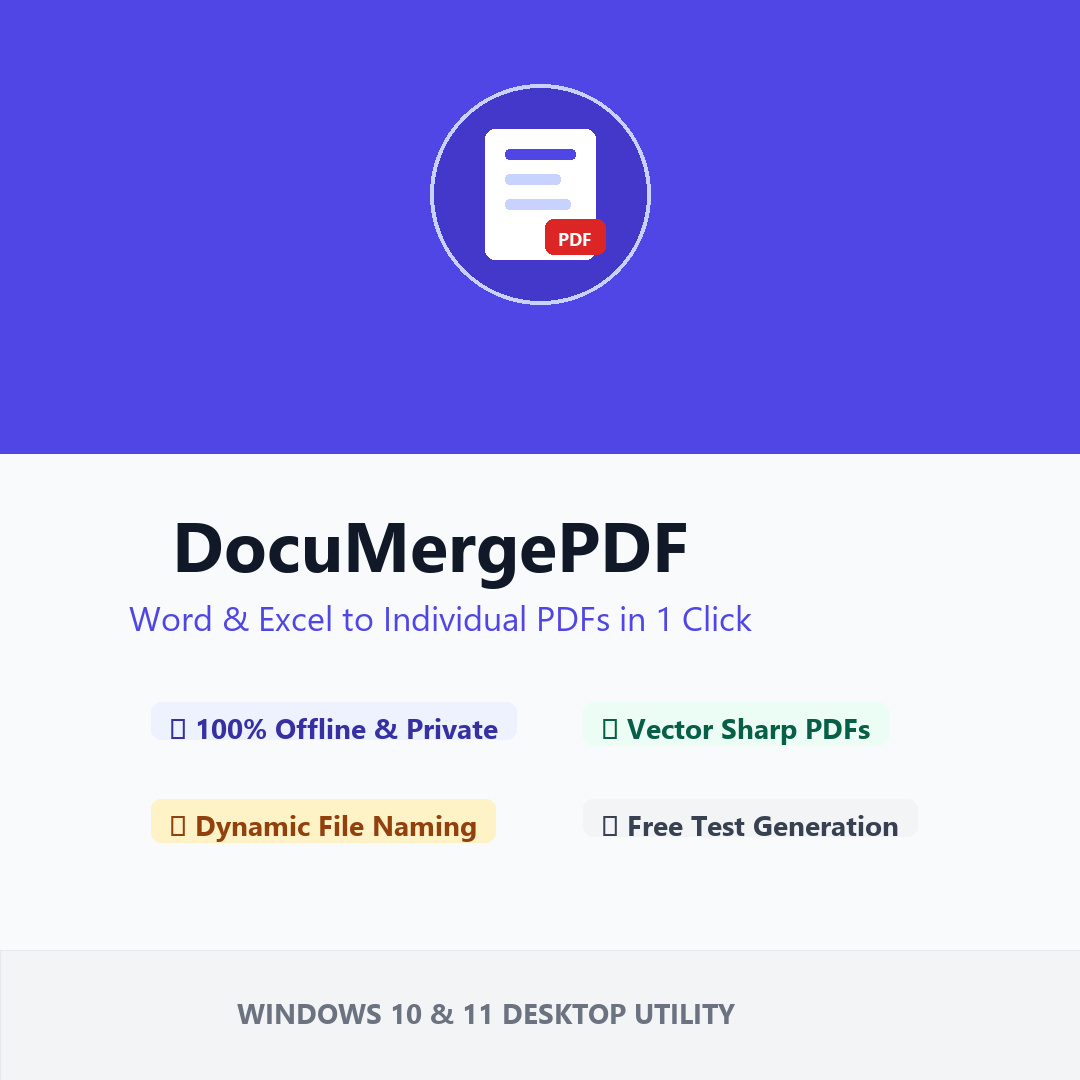
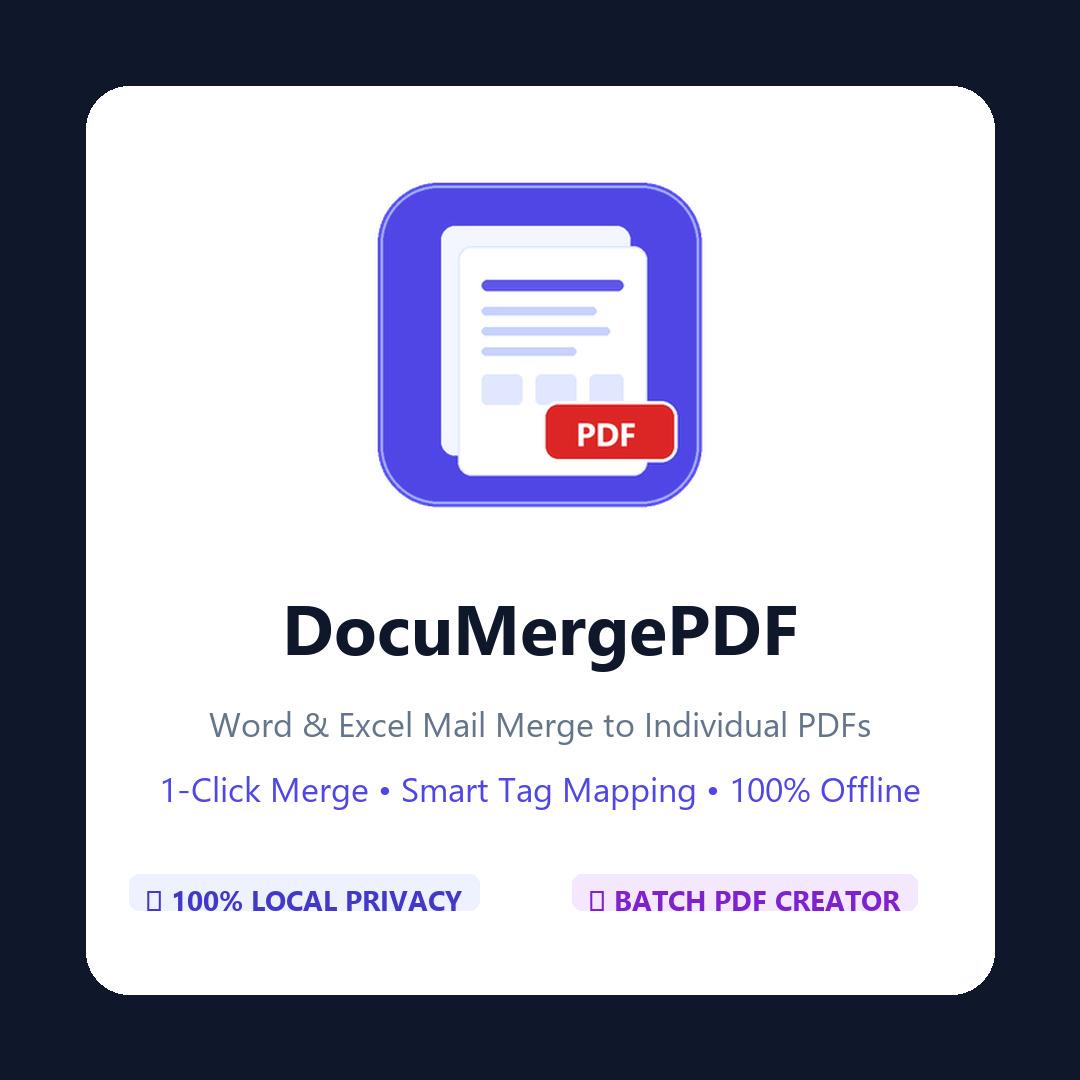
Update clean store assets and real screenshots

diff --git a/capture_docu_assets.py b/capture_docu_assets.py
@@ -1,0 +1,197 @@
+import os
+import sys
+import time
+from PIL import Image, ImageDraw, ImageFont, ImageGrab
+
+ROOT = r"C:\AllCode\Extension\Apps\Done\DocuMergePDF"
+OUT_DIR = os.path.join(ROOT, "STORE_ASSETS")
+os.makedirs(OUT_DIR, exist_ok=True)
+
+if ROOT not in sys.path:
+    sys.path.insert(0, ROOT)
+
+FONT_BOLD = "C:/Windows/Fonts/segoeuib.ttf"
+FONT_REG = "C:/Windows/Fonts/segoeui.ttf"
+FONT_SEMIBOLD = "C:/Windows/Fonts/seguisb.ttf"
+
+def get_font(path, size):
+    try:
+        return ImageFont.truetype(path, size)
+    except Exception:
+        return ImageFont.load_default()
+
+def draw_pill(draw, x, y, text, font, bg_color, text_color, px=18, py=8, radius=10, border_color=None):
+    bbox = draw.textbbox((0, 0), text, font=font)
+    tw, th = bbox[2] - bbox[0], bbox[3] - bbox[1]
+    box = [x, y, x + tw + px * 2, y + th + py * 2]
+    draw.rounded_rectangle(box, radius=radius, fill=bg_color, outline=border_color, width=1 if border_color else 0)
+    draw.text((x + px, y + py - 2), text, font=font, fill=text_color)
+    return x + tw + px * 2
+
+def create_box_art(size=1080):
+    img = Image.new("RGB", (size, size), (15, 23, 42))  # Slate 900
+    draw = ImageDraw.Draw(img)
+
+    f_title = get_font(FONT_BOLD, int(size * 0.065))
+    f_sub = get_font(FONT_REG, int(size * 0.032))
+    f_badge = get_font(FONT_BOLD, int(size * 0.026))
+
+    card_margin = int(size * 0.08)
+    draw.rounded_rectangle([card_margin, card_margin, size - card_margin, size - card_margin], radius=int(size * 0.04), fill=(255, 255, 255))
+
+    ico_path = os.path.join(ROOT, "app_icon.ico")
+    if os.path.exists(ico_path):
+        ico = Image.open(ico_path).convert("RGBA")
+        ico_size = int(size * 0.32)
+        ico_resized = ico.resize((ico_size, ico_size), Image.Resampling.LANCZOS)
+        img.paste(ico_resized, ((size - ico_size) // 2, int(size * 0.16)), ico_resized)
+
+    draw.text((size // 2, int(size * 0.58)), "DocuMergePDF", font=f_title, fill=(15, 23, 42), anchor="mm")
+    draw.text((size // 2, int(size * 0.67)), "Word & Excel Mail Merge to Individual PDFs", font=f_sub, fill=(100, 116, 139), anchor="mm")
+    draw.text((size // 2, int(size * 0.73)), "1-Click Merge • Smart Tag Mapping • 100% Offline", font=f_sub, fill=(79, 70, 229), anchor="mm")
+
+    pill_y = int(size * 0.81)
+    draw_pill(draw, int(size * 0.12), pill_y, "🔒 100% LOCAL PRIVACY", f_badge, (238, 242, 255), (67, 56, 202), px=16, py=8, radius=10)
+    draw_pill(draw, int(size * 0.53), pill_y, "⚡ BATCH PDF CREATOR", f_badge, (243, 232, 255), (126, 34, 206), px=16, py=8, radius=10)
+
+    out_file = os.path.join(OUT_DIR, f"BoxArt_{size}x{size}.png")
+    img.save(out_file, "PNG")
+    print(f"[✓] Created: {out_file}")
+
+def create_poster_art(w=720, h=1080):
+    img = Image.new("RGB", (w, h), (15, 23, 42))
+    draw = ImageDraw.Draw(img)
+
+    f_title = get_font(FONT_BOLD, 46)
+    f_sub = get_font(FONT_REG, 24)
+    f_feature = get_font(FONT_SEMIBOLD, 22)
+    f_badge = get_font(FONT_BOLD, 18)
+
+    card_left = 36
+    card_top = 48
+    card_right = w - 36
+    card_bottom = h - 48
+    draw.rounded_rectangle([card_left, card_top, card_right, card_bottom], radius=24, fill=(255, 255, 255))
+
+    ico_path = os.path.join(ROOT, "app_icon.ico")
+    if os.path.exists(ico_path):
+        ico = Image.open(ico_path).convert("RGBA")
+        ico_size = 240
+        ico_resized = ico.resize((ico_size, ico_size), Image.Resampling.LANCZOS)
+        img.paste(ico_resized, ((w - ico_size) // 2, 90), ico_resized)
+
+    draw.text((w // 2, 380), "DocuMergePDF", font=f_title, fill=(15, 23, 42), anchor="mm")
+    draw.text((w // 2, 430), "Mail Merge Word & Excel", font=f_sub, fill=(100, 116, 139), anchor="mm")
+    draw.text((w // 2, 465), "to Individual PDF Documents", font=f_sub, fill=(100, 116, 139), anchor="mm")
+
+    features = [
+        "📑 Word (.docx) & Excel (.xlsx, .csv)",
+        "🎯 Auto-Detect Merge Tags & Mapping",
+        "⚡ Sub-Second Individual PDF Output",
+        "📂 Custom Dynamic Filename Formulas",
+        "🔒 100% Offline & Secure Mail Merge"
+    ]
+
+    fy = 530
+    for feat in features:
+        draw.rounded_rectangle([70, fy, w - 70, fy + 58], radius=12, fill=(248, 250, 252), outline=(226, 232, 240), width=1)
+        draw.text((w // 2, fy + 29), feat, font=f_feature, fill=(30, 41, 59), anchor="mm")
+        fy += 72
+
+    draw.rounded_rectangle([70, 915, w - 70, 975], radius=12, fill=(79, 70, 229))
+    draw.text((w // 2, 945), "WINDOWS 10 & 11 READY", font=f_badge, fill=(255, 255, 255), anchor="mm")
+
+    out_file = os.path.join(OUT_DIR, f"PosterArt_{w}x{h}.png")
+    img.save(out_file, "PNG")
+    print(f"[✓] Created: {out_file}")
+
+    img_2x = img.resize((1440, 2160), Image.Resampling.LANCZOS)
+    out_2x = os.path.join(OUT_DIR, "PosterArt_1440x2160.png")
+    img_2x.save(out_2x, "PNG")
+    print(f"[✓] Created: {out_2x}")
+
+def capture_real_screenshots():
+    from gui.app import DocuMergePDFApp
+
+    app = DocuMergePDFApp()
+    app.state("zoomed")
+    app.lift()
+    app.attributes("-topmost", True)
+    app.update()
+    time.sleep(0.5)
+    app.attributes("-topmost", False)
+
+    def grab_window():
+        app.update_idletasks()
+        app.update()
+        time.sleep(0.4)
+        x = app.winfo_rootx()
+        y = app.winfo_rooty()
+        w = app.winfo_width()
+        h = app.winfo_height()
+        return ImageGrab.grab(bbox=(x, y, x + w, y + h))
+
+    # 1. Merge Studio (Screenshot 1)
+    app.switch_tab("merge")
+    app.update()
+    time.sleep(0.8)
+    shot1 = grab_window()
+
+    # 2. Live Preview Tab (Screenshot 2)
+    app.switch_tab("preview")
+    app.update()
+    time.sleep(0.8)
+    shot2 = grab_window()
+
+    # 3. Settings & License Tab (Screenshot 3)
+    app.switch_tab("settings")
+    app.update()
+    time.sleep(0.8)
+    shot3 = grab_window()
+
+    # 4. Back to Merge Studio (Screenshot 4)
+    app.switch_tab("merge")
+    app.update()
+    time.sleep(0.5)
+    shot4 = grab_window()
+
+    app.destroy()
+
+    shots = [
+        (shot1, "Screenshot_1.png"),
+        (shot2, "Screenshot_2.png"),
+        (shot3, "Screenshot_3.png"),
+        (shot4, "Screenshot_4.png")
+    ]
+
+    for img, fname in shots:
+        resized = img.resize((1920, 1080), Image.Resampling.LANCZOS)
+        out_p = os.path.join(OUT_DIR, fname)
+        resized.save(out_p, "PNG")
+        print(f"[✓] Saved {out_p}")
+
+def clean_assets():
+    keep_files = {
+        "Screenshot_1.png",
+        "Screenshot_2.png",
+        "Screenshot_3.png",
+        "Screenshot_4.png",
+        "BoxArt_1080x1080.png",
+        "PosterArt_720x1080.png",
+        "AppTileIcon_300x300.png",
+        "Icon_150x150.png",
+        "Icon_71x71.png"
+    }
+    for item in os.listdir(OUT_DIR):
+        if item not in keep_files and not item.startswith("PosterArt_1440"):
+            p = os.path.join(OUT_DIR, item)
+            if os.path.isfile(p):
+                os.remove(p)
+                print(f"Removed extra: {item}")
+
+if __name__ == "__main__":
+    create_box_art(1080)
+    create_poster_art(720, 1080)
+    capture_real_screenshots()
+    clean_assets()
+    print("[SUCCESS] All DocuMergePDF assets ready!")

diff --git a/PRIVACY.md b/PRIVACY.md
@@ -25,3 +25,4 @@ If you have any questions or feedback regarding this Privacy Policy, please cont
 - **Developer:** SereneWorks
 - **Email:** lenguyengiahoa200777@gmail.com
 - **Website / Repository:** https://github.com/NguyenLeGiaHoa/docu-merge-pdf
+
